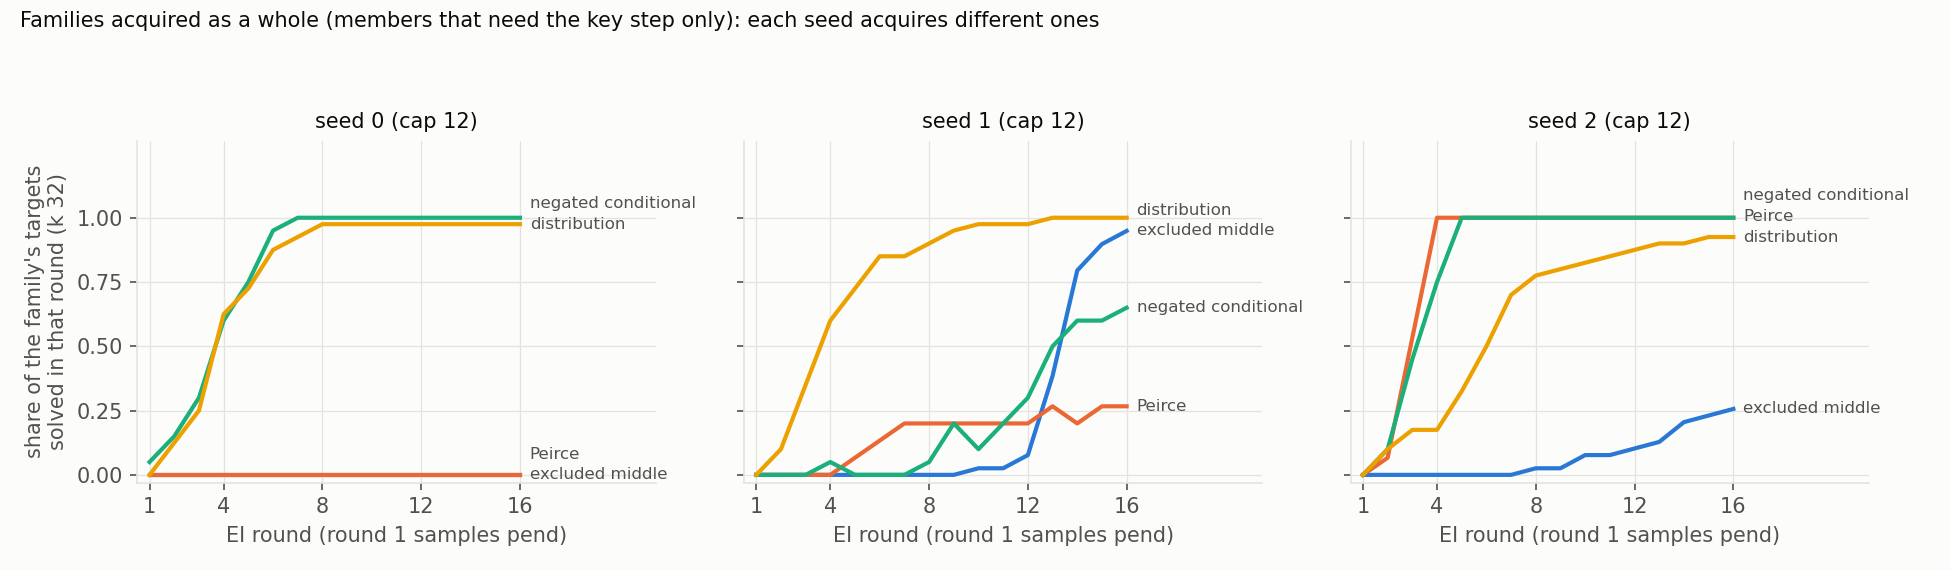
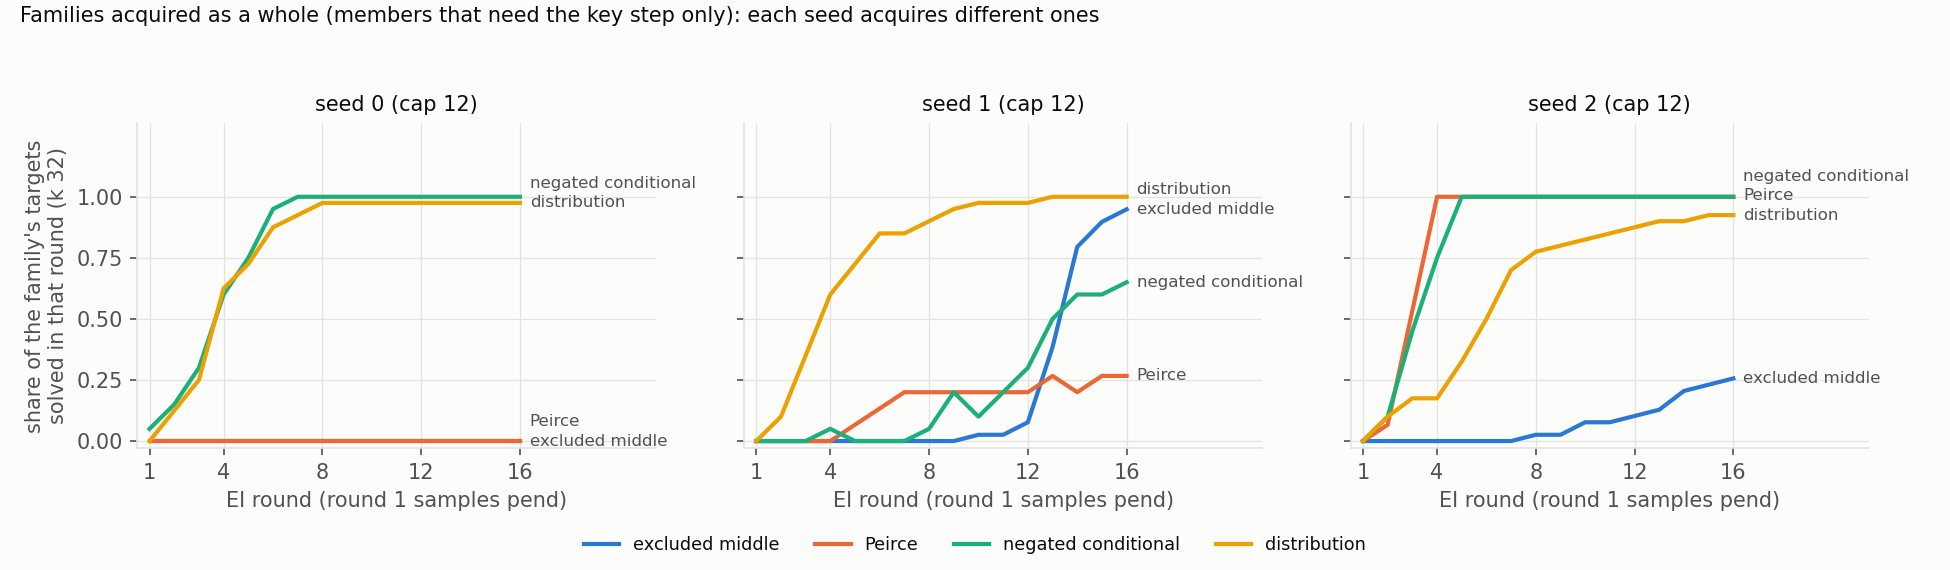
capability-defs: J9 attempts counted, coverage with RL-free controls, figure layout fixes, example renderer (eventual / r16 proofs)
Edited-by: agent:claude
Agent-role: executor
Run-id: capability-defs

diff --git a/capability_defs/analysis/cd_figures.py b/capability_defs/analysis/cd_figures.py
@@ -30,7 +30,7 @@ plt.rcParams.update({'figure.facecolor': SURF, 'axes.facecolor': SURF, 'savefig.
 
 
 def fig_kts(P, B):
-    fig, axes = plt.subplots(1, 3, figsize=(13, 4.6), sharey=False)
+    fig, axes = plt.subplots(1, 3, figsize=(13, 4.4), sharey=False)
     for s, ax in zip((0, 1, 2), axes):
         rows = B.get(str(s), {})
         H = [(n, r) for n, r in rows.items() if r['grp'] == 'H' and r.get('phat_r8', 0) > 0]
@@ -50,18 +50,20 @@ def fig_kts(P, B):
         for k, lab in ((256, 'k 256'), (K, 'K_eval-set'), (3.5e6, 'K_total')):
             if k:
                 ax.axvline(k, color=INK2, lw=1, ls=(0, (3, 3)))
-                ax.text(k * 1.3, 0.02, lab, transform=tr, rotation=90, va='bottom', ha='left', fontsize=7.5, color=INK2)
-        ax.set_xscale('log'); ax.set_xlim(1e2, 1e16)
+                ax.text(k * 1.3, 1.0, lab, transform=tr, rotation=90, va='top', ha='left', fontsize=7.5, color=INK2)
+        ax.set_xscale('log'); ax.set_xlim(1e2, 1e18); ax.set_ylim(-1, len(iv) * 1.28 + 4)
+        ax.set_xticks([10.0 ** e for e in range(2, 17, 2)])
         ax.set_title(f'seed {s}: {len(iv)} theorems r8 solves, pend 0 / 512', fontsize=10, loc='left')
         ax.set_xlabel("pend's k-to-solve (attempts)")
         ax.set_yticks([])
     axes[0].plot([], [], color=C[0], lw=2, label='pend found a proof (J2 or earlier draws)')
     axes[0].plot([], [], color=C[1], lw=2, label='pend never succeeded')
-    axes[0].legend(loc='center right', frameon=False, fontsize=8)
+    fig.legend(*axes[0].get_legend_handles_labels(), loc='lower center', ncol=2, frameon=False, fontsize=8.5,
+               bbox_to_anchor=(0.5, 0.0))
     fig.suptitle("How many attempts would the base need? One line per theorem r8 solves that pend failed in 512 attempts:\n"
                  "from the sampling bound (left end) to the known-proof estimate (right end). Dashed: budgets RL's compute buys (cap 12).",
-                 fontsize=10, x=0.01, ha='left')
-    fig.tight_layout(rect=(0, 0, 1, 0.9)); fig.savefig(f'{FIG}/cd_kts.png', dpi=150); plt.close(fig)
+                 fontsize=10, x=0.01, y=0.995, ha='left')
+    fig.tight_layout(rect=(0, 0.06, 1, 0.92)); fig.savefig(f'{FIG}/cd_kts.png', dpi=150); plt.close(fig)
 
 
 def fig_curve(P):
@@ -75,11 +77,21 @@ def fig_curve(P):
             y = [c[1 + j] for c in cur]
             ax.plot(K, y, color=col, lw=2)
             ax.text(K[-1] * 1.15, y[-1], lab, color=INK2, fontsize=8, va='center')
+        Ke = P['cov'].get(f's{s}_r8', {}).get('K_evalset')
+        if Ke:
+            ax.axvline(Ke, color=INK2, lw=1, ls=(0, (3, 3)))
+            ax.text(Ke * 1.3, 0.98, 'K_eval-set', transform=ax.get_xaxis_transform(), rotation=90, va='top', ha='left',
+                    fontsize=7.5, color=INK2)
         ax.set_xscale('log'); ax.set_xlim(200, 1e8)
         ax.set_title(f'seed {s} (cap 12, r8)', fontsize=10); ax.set_xlabel('budget K (base attempts)')
     axes[0].set_ylabel('RL-solved hard theorems')
-    fig.suptitle('The verdict depends on the budget: hard theorems r8 solves, classified at each budget K', fontsize=10, x=0.01, ha='left')
-    fig.tight_layout(rect=(0, 0, 1, 0.92)); fig.savefig(f'{FIG}/cd_elicit_curve.png', dpi=150); plt.close(fig)
+    for j, (lab, col) in enumerate((('certified elicited', C[0]), ('certified created', C[2]), ('undetermined', C[1]))):
+        axes[0].plot([], [], color=col, lw=2, label=lab)
+    fig.legend(*axes[0].get_legend_handles_labels(), loc='lower center', ncol=3, frameon=False, fontsize=8.5,
+               bbox_to_anchor=(0.5, 0.0))
+    fig.suptitle('The verdict depends on the budget: hard theorems r8 solves, classified at each budget K', fontsize=10, x=0.01,
+                 y=0.99, ha='left')
+    fig.tight_layout(rect=(0, 0.06, 1, 0.95)); fig.savefig(f'{FIG}/cd_elicit_curve.png', dpi=150); plt.close(fig)
 
 
 def fig_agree(P, defs, labels):
@@ -122,9 +134,13 @@ def fig_schema(S):
         ax.set_xticks([1, 4, 8, 12, 16]); ax.set_yticks([0, 0.25, 0.5, 0.75, 1.0])
         ax.set_title(f'seed {s} (cap 12)', fontsize=10); ax.set_xlabel('EI round (round 1 samples pend)')
     axes[0].set_ylabel('share of the family\'s targets\nsolved in that round (k 32)')
+    for (f, lab), col in zip(fams, C):
+        axes[0].plot([], [], color=col, lw=2, label=lab)
+    fig.legend(*axes[0].get_legend_handles_labels(), loc='lower center', ncol=4, frameon=False, fontsize=8.5,
+               bbox_to_anchor=(0.5, 0.0))
     fig.suptitle('Families acquired as a whole (members that need the key step only): each seed acquires different ones',
-                 fontsize=10, x=0.01, ha='left')
-    fig.tight_layout(rect=(0, 0, 1, 0.92)); fig.savefig(f'{FIG}/cd_schema.png', dpi=150); plt.close(fig)
+                 fontsize=10, x=0.01, y=0.99, ha='left')
+    fig.tight_layout(rect=(0, 0.06, 1, 0.95)); fig.savefig(f'{FIG}/cd_schema.png', dpi=150); plt.close(fig)
 
 
 def main():

diff --git a/capability_defs/analysis/cd_part3.py b/capability_defs/analysis/cd_part3.py
@@ -53,8 +53,11 @@ def j2_counts(s, trunc=False):
     """pend's J2 attempts per theorem: standard caps (stage A c*, calibration cal, A' d*, B b*), or with trunc=True only
     the doubled-cap truncation chunks t*."""
     out = collections.defaultdict(lambda: [0, 0, set()])
-    for p in glob.glob(f'{ROOT}/artifacts/cd/j2/s{s}_*.jsonl'):
-        if os.path.basename(p).split('_')[1].startswith('t') != trunc:
+    paths = glob.glob(f'{ROOT}/artifacts/cd/j2/s{s}_*.jsonl')
+    if not trunc:                 # J9 certification chunks: the same standard-cap protocol (compacted rows)
+        paths += [p for p in glob.glob(f'{ROOT}/artifacts/cd/j9/s{s}_k*.jsonl') if not p.endswith('.full.jsonl')]
+    for p in paths:
+        if '/j2/' in p and os.path.basename(p).split('_')[1].startswith('t') != trunc:
             continue
         for l in open(p):
             r = json.loads(l)
@@ -288,7 +291,10 @@ def main():
             r_cov = sum(1 for n in names if (S[n]['counts'].get(rl, {}).get(str(x)) or [0])[0] > 0)
             b_cov = sum(1 for n in names if pend_all(n)[0] > 0)
             b_reach = sum(1 for n in names if pend_all(n)[0] / max(pend_all(n)[1], 1) >= 1 / K)
+            c_cov = sum(1 for n in names if (S[n]['counts'].get('ctrl8', {}).get(str(x)) or [0])[0] > 0)
+            j7 = j7_solves(s, x)
             res['cov'][f's{s}_{rl}'] = {'rl_solved_256': r_cov, 'base_solved_all': b_cov, 'base_within_K': b_reach,
+                                        'ctrl8_solved_256': c_cov, 'j7_solved_256': len(j7) if j7 else None,
                                         'K_evalset': K,
                                         'base_attempts_median_H': float(np.median([pend_all(n)[1] for n in H])) if H else 0,
                                         'base_attempts_min_H': float(min(pend_all(n)[1] for n in H)) if H else 0}
@@ -362,7 +368,7 @@ def main():
         print(f'{d + "_net":10s} ' + ' '.join(f'{len(res["sets"][k].get(d + "_net", [])):11d}' for k in keys))
     print('\nset-level compute-matched coverage (r8: draw x0; r16: x1): RL solved@256 vs base within reach at K_eval-set')
     for k, v in res['cov'].items():
-        print(f'  {k}: RL {v["rl_solved_256"]} at 256 vs base {v["base_within_K"]} within reach at K_eval-set {v["K_evalset"]:,.0f} '
+        print(f'  {k}: RL {v["rl_solved_256"]} at 256 (replay-only {v["ctrl8_solved_256"]}, J7 {v["j7_solved_256"]}) vs base {v["base_within_K"]} within reach at K_eval-set {v["K_evalset"]:,.0f} '
               f'(p-hat >= 1/K; base ever solved {v["base_solved_all"]}); base attempts on H: median {v["base_attempts_median_H"]:,.0f}, '
               f'min {v["base_attempts_min_H"]:,.0f}')
     print('\nredraw floor (Jaccard, defining draw vs redraw) and seed floor (mean pairwise Jaccard across seeds, defining draw):')

diff --git a/capability_defs/analysis/cd_examples.py b/capability_defs/analysis/cd_examples.py
@@ -47,10 +47,11 @@ def ev_proof(s, n, prompt):
 
 
 EV = '--ev' in sys.argv
+RL = sys.argv[sys.argv.index('--rl') + 1] if '--rl' in sys.argv else 'r8'
 
 
 def main():
-    s = int(sys.argv[1]); names = [a for a in sys.argv[2:] if a != '--ev']
+    s = int(sys.argv[1]); names = [a for a in sys.argv[2:] if a not in ('--ev', '--rl', RL)]
     T = json.load(open(f'{OUT}/table_c12.json'))
     S = T['seeds'][str(s)]; meta = T['meta']
     by, tgt = load_scores(s)
@@ -83,15 +84,15 @@ def main():
                 v = [u for u in v if u]
                 other.append(f's{s2} pend {sum(u[0] for u in v)} / {sum(u[1] for u in v)}')
         print('- other seeds: ' + '; '.join(other))
-        # RL's shortest accepted proof (r8 x0 read) and pend's best known proof
-        d = R.read(12, s, 'r8', meta[n]['pool'], 0)
+        # RL's shortest accepted proof (r8 x0 read, or r16 x1 with --rl r16) and pend's best known proof
+        d = R.read(12, s, RL, meta[n]['pool'], 0 if RL == 'r8' else 1)
         prs = sorted(d[n][2], key=lambda p: (p.count(';'), p)) if d and n in d else []
         if prs:
             y = prs[0]
             lp = next((v for v, tid in vals if tgt.get(tid) == y), None)
             src = nd2lean.translate(meta[n]['prompt'], y, require_all_pr=False)
             ok, size, nl = lean_meta(src)
-            print(f'\nr8\'s shortest accepted proof (log p under pend at T 0.8: {lp if lp is None else round(lp, 1)}; Lean {"accepts" if ok else "REJECTS"}; '
+            print(f'\n{RL}\'s shortest accepted proof (log p under pend at T 0.8: {lp if lp is None else round(lp, 1)}; Lean {"accepts" if ok else "REJECTS"}; '
                   f'{nl} `have` lines; term size {size}):\n')
             print('```lean\n' + src + '\n```')
         if EV:

diff --git a/capability_defs/analysis/cd_report_tables.py b/capability_defs/analysis/cd_report_tables.py
@@ -58,14 +58,15 @@ def t_defs(P):
 
 
 def t_cov(P):
-    print('| comparison | RL solved at 256 | base within reach at K_eval-set | Δ_cov | K_eval-set |')
-    print('|---|---|---|---|---|')
+    print('| seed | base within reach at K_eval-set (r8 / r16 budget) | replay-only r8, k 256 | J7 continuation, k 256 | r8, k 256 | r16, k 256 | Δ_cov r8 / r16 |')
+    print('|---|---|---|---|---|---|---|')
     for s in SEEDS:
-        for rl in ('r8', 'r16'):
-            v = P['cov'].get(f's{s}_{rl}')
-            if v:
-                print(f'| s{s} {rl} | {v["rl_solved_256"]} | {v["base_within_K"]} | {v["rl_solved_256"] - v["base_within_K"]:+d} | '
-                      f'{v["K_evalset"]:,.0f} |')
+        a, b = P['cov'].get(f's{s}_r8'), P['cov'].get(f's{s}_r16')
+        if a and b:
+            j7 = a.get('j7_solved_256')
+            print(f'| s{s} | {a["base_within_K"]} / {b["base_within_K"]} | {a.get("ctrl8_solved_256", "–")} | {j7 if j7 is not None else "–"} | '
+                  f'{a["rl_solved_256"]} | {b["rl_solved_256"]} | {a["rl_solved_256"] - a["base_within_K"]:+d} / '
+                  f'{b["rl_solved_256"] - b["base_within_K"]:+d} |')
 
 
 def t_bracket(B):

diff --git a/capability_defs/analysis/cd_bracket.py b/capability_defs/analysis/cd_bracket.py
@@ -66,8 +66,10 @@ def load_j1(s):
 
 def j2_counts(s):
     out = {}
-    for p in glob.glob(f'{ROOT}/artifacts/cd/j2/s{s}_*.jsonl'):
-        if p.endswith('.args.json') or os.path.basename(p).split('_')[1].startswith('t'):
+    paths = glob.glob(f'{ROOT}/artifacts/cd/j2/s{s}_*.jsonl')
+    paths += [p for p in glob.glob(f'{ROOT}/artifacts/cd/j9/s{s}_k*.jsonl') if not p.endswith('.full.jsonl')]   # J9
+    for p in paths:
+        if p.endswith('.args.json') or ('/j2/' in p and os.path.basename(p).split('_')[1].startswith('t')):
             continue                      # t*: the doubled-cap truncation check, not the standard protocol
         for l in open(p):
             r = json.loads(l)

diff --git a/capability_defs/REPORT.md b/capability_defs/REPORT.md
@@ -138,11 +138,34 @@ known-proof estimate / 2 is ≥ 1 / K):
 
 ### 3.2 What each definition calls "created", and how noisy that is
 
-⟨S32⟩
+Created sets at r8 (draw x0) and r16 (draw x1), cap 12, per seed (`cd_part3.py`, `out/part3.txt`; rendered by
+`cd_report_tables.py`). "Net" removes theorems the replay-only control solves on the same draw. Redraw floor: Jaccard
+of the sets defined on the two sample draws. Seed floor: Jaccard between seeds' sets (pairs s0–s1, s0–s2, s1–s2).
+
+⟨S32 TABLE⟩
+
+- **The sets shrink as a definition asks more of the base.** ⟨S32 SHRINK⟩
+- **Redraw floors are high** (⟨0.7–1.0⟩) for every sampling definition, so a verdict is stable across draws of the
+  same two models.
+- **Seed floors are low** (⟨0.1–0.4⟩): each seed's RL "creates" different theorems. The exception is rule-set novelty
+  (0.55–0.62), which compares RL's proofs with the pretraining data rather than with the base.
+- **Long pool** (`transfer_long2`, 21 theorems with long proofs; equal-k only, pend x2 vs RL x0): RL "creates" 13 / 15
+  / 16 of 21 at r8. J10 gave pend 16,384 more attempts on each: ⟨J10⟩.
+- **Cap 6** (weaker bases: pend solves 153 / 126 / 128 of holdout250 plain; no large-k base reads, so only the
+  unbudgeted definitions): equal-k 101 / 132 / 122 at r8; reliable 104 / 124 / 110; schema members 31 / 43 / 47. ⟨cap-6
+  guided⟩
 
 ### 3.3 Do the definitions agree?
 
-⟨S33⟩
+![F3](analysis/figures/cd_agreement.png)
+
+- Mean off-diagonal Jaccard ⟨0.27⟩ at r8 and ⟨0.31⟩ at r16 (pre-registered Q14: ≤ 0.4).
+- Two clusters: ⟨clusters⟩
+- Family-level and novelty definitions agree with nothing (≤ 0.2): they answer different questions.
+
+**Where they disagree, in Lean** (`cd_examples.py`, `out/examples.md`).
+
+⟨S33 EXAMPLES⟩
 
 ### 3.4 Threshold sensitivity
 
